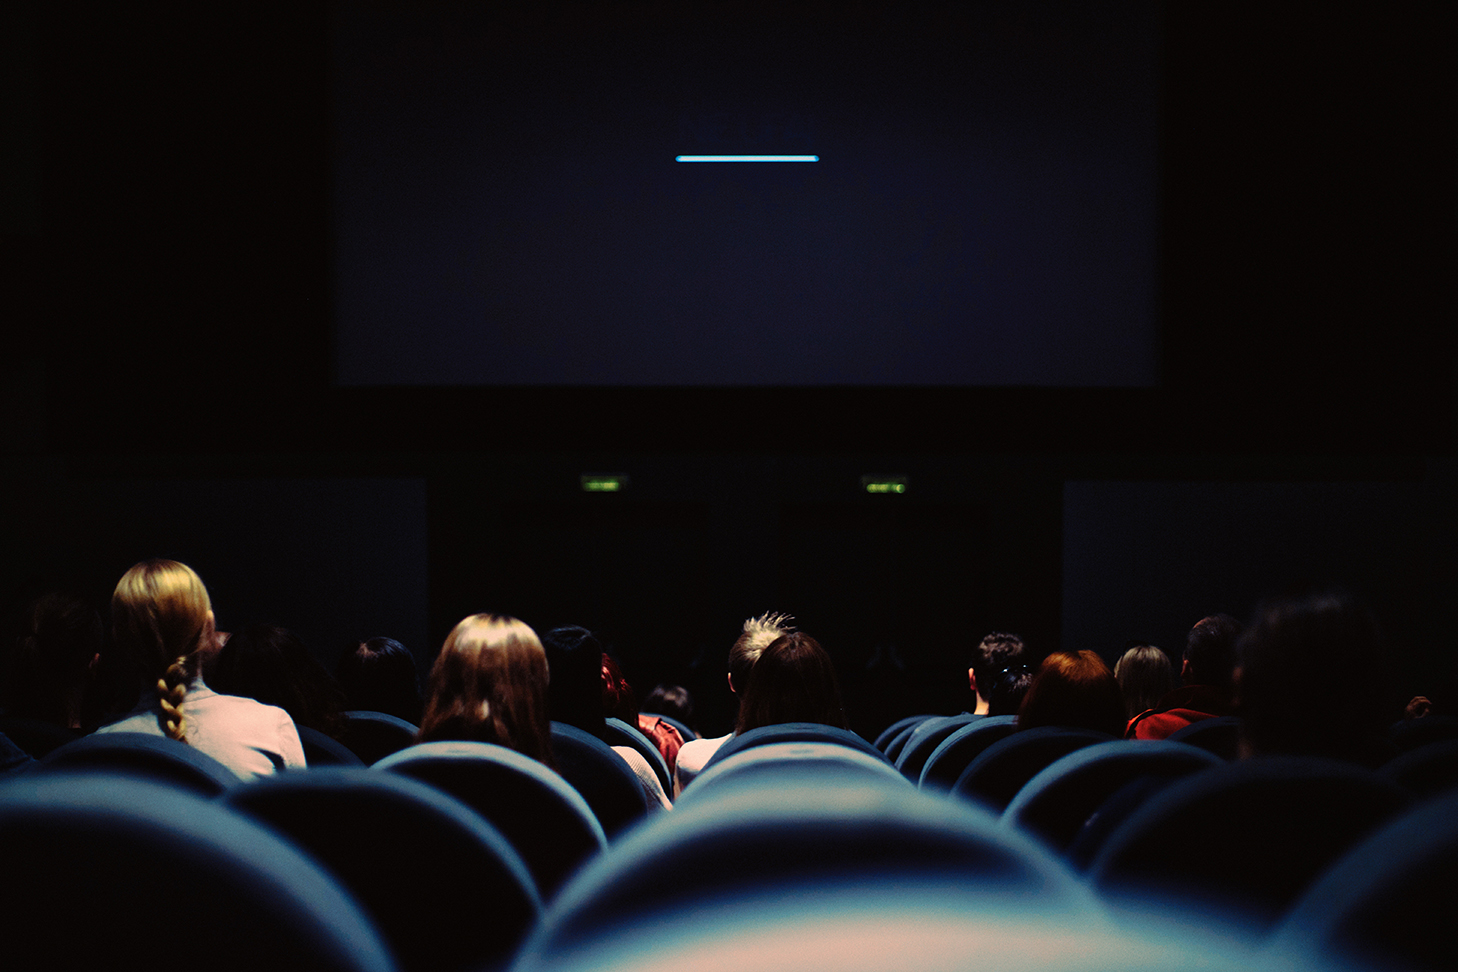
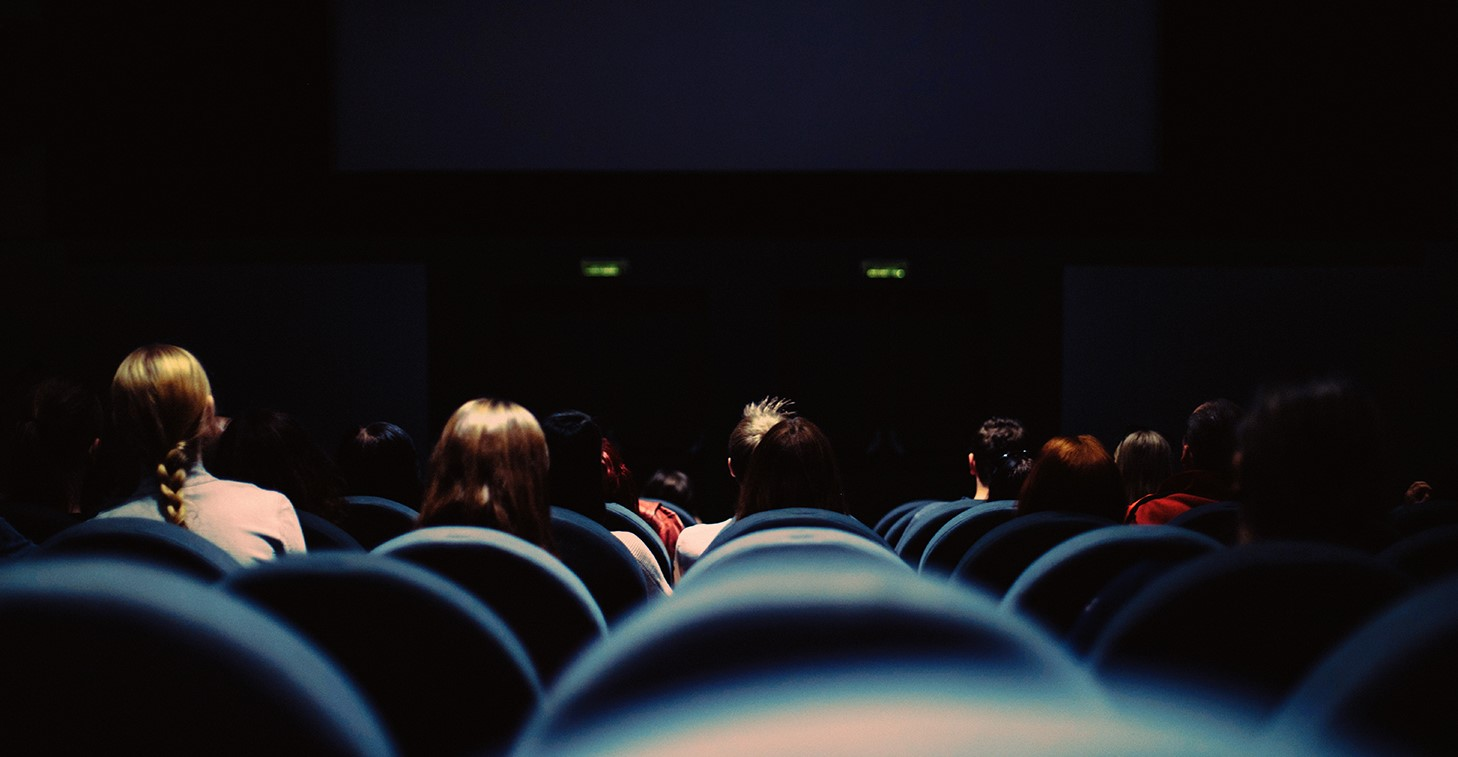
added pics

diff --git a/carpedictum.html b/carpedictum.html
@@ -9,7 +9,7 @@
     <!-- The above 4 meta tags *must* come first in the head; any other head content must come *after* these tags -->
 
     <!-- Title -->
-    <title>One Music - Modern Music HTML5 Template</title>
+    <title>Dhwani Marketing</title>
 
     <!-- Favicon -->
     <link rel="icon" href="img/core-img/favicon.ico">
@@ -117,10 +117,10 @@
     <!-- ##### Header Area End ##### -->
 
     <!-- ##### Breadcumb Area Start ##### -->
-    <section class="breadcumb-area bg-img bg-overlay" style="background-image: url(img/bg-img/breadcumb3.jpg);">
+    <section class="breadcumb-area bg-img bg-overlay" style="background-image: url(img/carpedictum.jpg);">
         <div class="bradcumbContent">
 
-            <h2>Carpedictum</h2>
+            <h2>Carpe Dictum</h2>
         </div>
     </section>
     <!-- ##### Breadcumb Area End ##### -->

diff --git a/miscellenio.html b/miscellenio.html
@@ -9,7 +9,7 @@
     <!-- The above 4 meta tags *must* come first in the head; any other head content must come *after* these tags -->
 
     <!-- Title -->
-    <title>One Music - Modern Music HTML5 Template</title>
+    <title>Dhwani Marketing</title>
 
     <!-- Favicon -->
     <link rel="icon" href="img/core-img/favicon.ico">
@@ -117,10 +117,10 @@
     <!-- ##### Header Area End ##### -->
 
     <!-- ##### Breadcumb Area Start ##### -->
-    <section class="breadcumb-area bg-img bg-overlay" style="background-image: url(img/bg-img/breadcumb3.jpg);">
+    <section class="breadcumb-area bg-img bg-overlay" style="background-image: url(img/miscelaneo1.jpg);">
         <div class="bradcumbContent">
 
-            <h2>Miscellenio</h2>
+            <h2>Miscelaneo</h2>
         </div>
     </section>
     <!-- ##### Breadcumb Area End ##### -->

diff --git a/panel_discussions.html b/panel_discussions.html
@@ -9,7 +9,7 @@
     <!-- The above 4 meta tags *must* come first in the head; any other head content must come *after* these tags -->
 
     <!-- Title -->
-    <title>One Music - Modern Music HTML5 Template</title>
+    <title>Dhwani Marketing</title>
 
     <!-- Favicon -->
     <link rel="icon" href="img/core-img/favicon.ico">
@@ -117,7 +117,7 @@
     <!-- ##### Header Area End ##### -->
 
     <!-- ##### Breadcumb Area Start ##### -->
-    <section class="breadcumb-area bg-img bg-overlay" style="background-image: url(img/bg-img/breadcumb3.jpg);">
+    <section class="breadcumb-area bg-img bg-overlay" style="background-image: url(img/paneldiscussion.jpg);">
         <div class="bradcumbContent">
 
             <h2>Panel discussions</h2>

diff --git a/social-activities.html b/social-activities.html
@@ -9,7 +9,7 @@
     <!-- The above 4 meta tags *must* come first in the head; any other head content must come *after* these tags -->
 
     <!-- Title -->
-    <title>One Music - Modern Music HTML5 Template</title>
+    <title>Dhwani Marketing</title>
 
     <!-- Favicon -->
     <link rel="icon" href="img/core-img/favicon.ico">
@@ -117,7 +117,7 @@
     <!-- ##### Header Area End ##### -->
 
     <!-- ##### Breadcumb Area Start ##### -->
-    <section class="breadcumb-area bg-img bg-overlay" style="background-image: url(img/bg-img/breadcumb3.jpg);">
+    <section class="breadcumb-area bg-img bg-overlay" style="background-image: url(img/social.jpg);">
         <div class="bradcumbContent">
 
             <h2>Dhwani Social activities</h2>

diff --git a/foodfestival.html b/foodfestival.html
@@ -9,7 +9,7 @@
     <!-- The above 4 meta tags *must* come first in the head; any other head content must come *after* these tags -->
 
     <!-- Title -->
-    <title>One Music - Modern Music HTML5 Template</title>
+    <title>Dhwani Marketing</title>
 
     <!-- Favicon -->
     <link rel="icon" href="img/core-img/favicon.ico">
@@ -117,7 +117,7 @@
     <!-- ##### Header Area End ##### -->
 
     <!-- ##### Breadcumb Area Start ##### -->
-    <section class="breadcumb-area bg-img bg-overlay" style="background-image: url(img/bg-img/breadcumb3.jpg);">
+    <section class="breadcumb-area bg-img bg-overlay" style="background-image: url(img/foodefest.jpg);">
         <div class="bradcumbContent">
 
             <h2>Food festival</h2>

diff --git a/dionysia.html b/dionysia.html
@@ -9,7 +9,7 @@
     <!-- The above 4 meta tags *must* come first in the head; any other head content must come *after* these tags -->
 
     <!-- Title -->
-    <title>One Music - Modern Music HTML5 Template</title>
+    <title>Dhwani Marketing</title>
 
     <!-- Favicon -->
     <link rel="icon" href="img/core-img/favicon.ico">
@@ -117,7 +117,7 @@
     <!-- ##### Header Area End ##### -->
 
     <!-- ##### Breadcumb Area Start ##### -->
-    <section class="breadcumb-area bg-img bg-overlay" style="background-image: url(img/bg-img/breadcumb3.jpg);">
+    <section class="breadcumb-area bg-img bg-overlay" style="background-image: url(img/filmfestival.jpg);">
         <div class="bradcumbContent">
 
             <h2>Dionysia</h2>

diff --git a/informals.html b/informals.html
@@ -9,7 +9,7 @@
     <!-- The above 4 meta tags *must* come first in the head; any other head content must come *after* these tags -->
 
     <!-- Title -->
-    <title>One Music - Modern Music HTML5 Template</title>
+    <title>Dhwani Marketing</title>
 
     <!-- Favicon -->
     <link rel="icon" href="img/core-img/favicon.ico">
@@ -117,7 +117,7 @@
     <!-- ##### Header Area End ##### -->
 
     <!-- ##### Breadcumb Area Start ##### -->
-    <section class="breadcumb-area bg-img bg-overlay" style="background-image: url(img/bg-img/breadcumb3.jpg);">
+    <section class="breadcumb-area bg-img bg-overlay" style="background-image: url(img/informals.jpg);">
         <div class="bradcumbContent">
 
             <h2>informals</h2>

diff --git a/khelotsav.html b/khelotsav.html
@@ -9,7 +9,7 @@
     <!-- The above 4 meta tags *must* come first in the head; any other head content must come *after* these tags -->
 
     <!-- Title -->
-    <title>One Music - Modern Music HTML5 Template</title>
+    <title>Dhwani Marketing</title>
 
     <!-- Favicon -->
     <link rel="icon" href="img/core-img/favicon.ico">
@@ -117,7 +117,7 @@
     <!-- ##### Header Area End ##### -->
 
     <!-- ##### Breadcumb Area Start ##### -->
-    <section class="breadcumb-area bg-img bg-overlay" style="background-image: url(img/bg-img/breadcumb3.jpg);">
+    <section class="breadcumb-area bg-img bg-overlay" style="background-image: url(img/khelotsav.jpg);">
         <div class="bradcumbContent">
 
             <h2>Khelotsav</h2>

diff --git a/spot_light.html b/spot_light.html
@@ -9,7 +9,7 @@
     <!-- The above 4 meta tags *must* come first in the head; any other head content must come *after* these tags -->
 
     <!-- Title -->
-    <title>One Music - Modern Music HTML5 Template</title>
+    <title>Dhwani Marketing</title>
 
     <!-- Favicon -->
     <link rel="icon" href="img/core-img/favicon.ico">
@@ -117,7 +117,7 @@
     <!-- ##### Header Area End ##### -->
 
     <!-- ##### Breadcumb Area Start ##### -->
-    <section class="breadcumb-area bg-img bg-overlay" style="background-image: url(img/bg-img/breadcumb3.jpg);">
+    <section class="breadcumb-area bg-img bg-overlay" style="background-image: url(img/spotlight.jpg);">
         <div class="bradcumbContent">
 
             <h2>Spotlight</h2>

diff --git a/nadanta.html b/nadanta.html
@@ -9,7 +9,7 @@
     <!-- The above 4 meta tags *must* come first in the head; any other head content must come *after* these tags -->
 
     <!-- Title -->
-    <title>One Music - Modern Music HTML5 Template</title>
+    <title>Dhwani Marketing</title>
 
     <!-- Favicon -->
     <link rel="icon" href="img/core-img/favicon.ico">
@@ -117,7 +117,7 @@
     <!-- ##### Header Area End ##### -->
 
     <!-- ##### Breadcumb Area Start ##### -->
-    <section class="breadcumb-area bg-img bg-overlay" style="background-image: url(img/bg-img/breadcumb3.jpg);">
+    <section class="breadcumb-area bg-img bg-overlay" style="background-image: url(img/nadanta.jpg);">
         <div class="bradcumbContent">
 
             <h2>Nadanta</h2>

diff --git a/antara.html b/antara.html
@@ -9,7 +9,7 @@
     <!-- The above 4 meta tags *must* come first in the head; any other head content must come *after* these tags -->
 
     <!-- Title -->
-    <title>One Music - Modern Music HTML5 Template</title>
+    <title>Dhwani Marketing</title>
 
     <!-- Favicon -->
     <link rel="icon" href="img/core-img/favicon.ico">
@@ -117,7 +117,7 @@
     <!-- ##### Header Area End ##### -->
 
     <!-- ##### Breadcumb Area Start ##### -->
-    <section class="breadcumb-area bg-img bg-overlay" style="background-image: url(img/bg-img/breadcumb3.jpg);">
+    <section class="breadcumb-area bg-img bg-overlay" style="background-image: url(img/antara.jpg);">
         <div class="bradcumbContent">
 
             <h2>Antara</h2>

diff --git a/pro-nights.html b/pro-nights.html
@@ -9,7 +9,7 @@
     <!-- The above 4 meta tags *must* come first in the head; any other head content must come *after* these tags -->
 
     <!-- Title -->
-    <title>One Music - Modern Music HTML5 Template</title>
+    <title>Dhwani Marketing</title>
 
     <!-- Favicon -->
     <link rel="icon" href="img/core-img/favicon.ico">
@@ -117,7 +117,7 @@
     <!-- ##### Header Area End ##### -->
 
     <!-- ##### Breadcumb Area Start ##### -->
-    <section class="breadcumb-area bg-img bg-overlay" style="background-image: url(img/miscelaneo1.jpg);">
+    <section class="breadcumb-area bg-img bg-overlay" style="background-image: url(img/pronite.jpg);">
         <div class="bradcumbContent">
 
             <h2>Pro-nights</h2>
